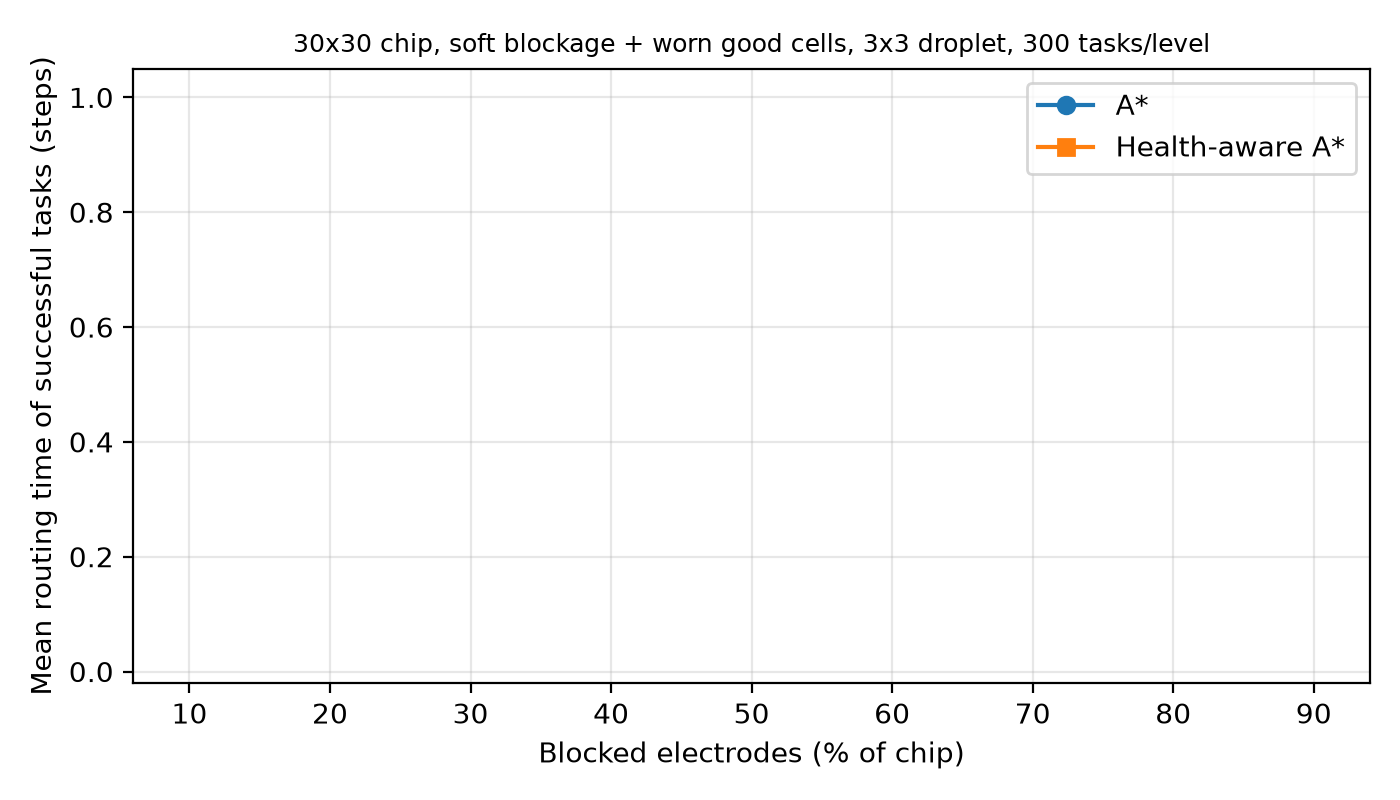
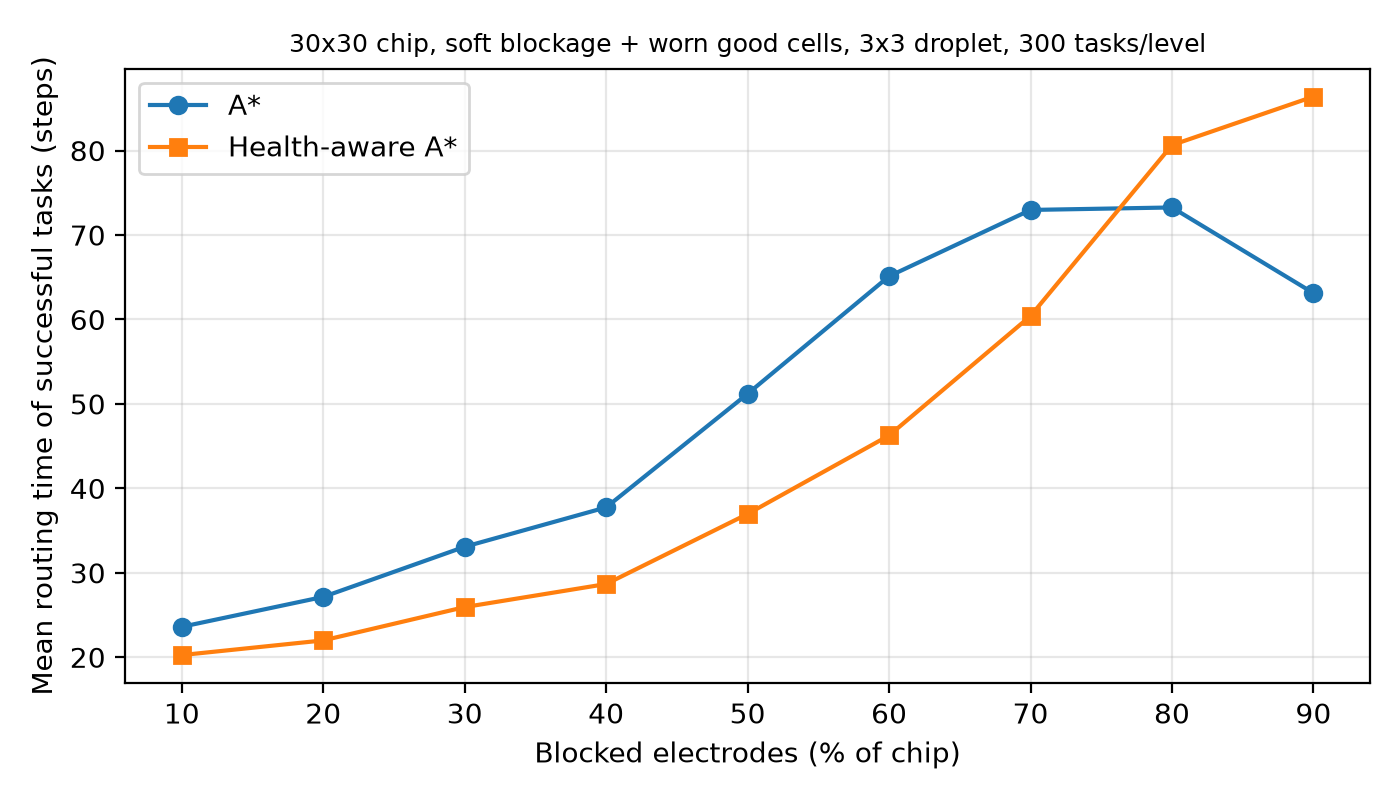
Fix empty routing-time plots in blockage sweep
The y-axis was clamped to 0-1 for any metric containing success,
which also matched mean_steps_success, so the routing-time curves
(16-87 steps) were drawn off-chart. Clamp only the success-rate
metrics and redraw the four blockage_steps_*.png plots from the
existing CSVs (data unchanged).

diff --git a/experiments/exp6_blockage_sweep.py b/experiments/exp6_blockage_sweep.py
@@ -235,7 +235,7 @@ for metric, ylab, fn in [
         ax.plot(x, [r[metric] for r in rows if r["method"] == m], marker=mk_, label=m)
     ax.set_xlabel("Blocked electrodes (% of chip)"); ax.set_ylabel(ylab)
     ax.set_xticks(x)
-    if "success" in metric:
+    if metric.startswith("success"):   # not mean_steps_success, which is in steps
         ax.set_ylim(-0.02, 1.05)
     ax.grid(alpha=0.3); ax.legend(); ax.set_title(title, fontsize=9)
     fig.tight_layout(); fig.savefig(os.path.join(args.out, f"blockage_{fn}_{tag}.png"), dpi=200)
